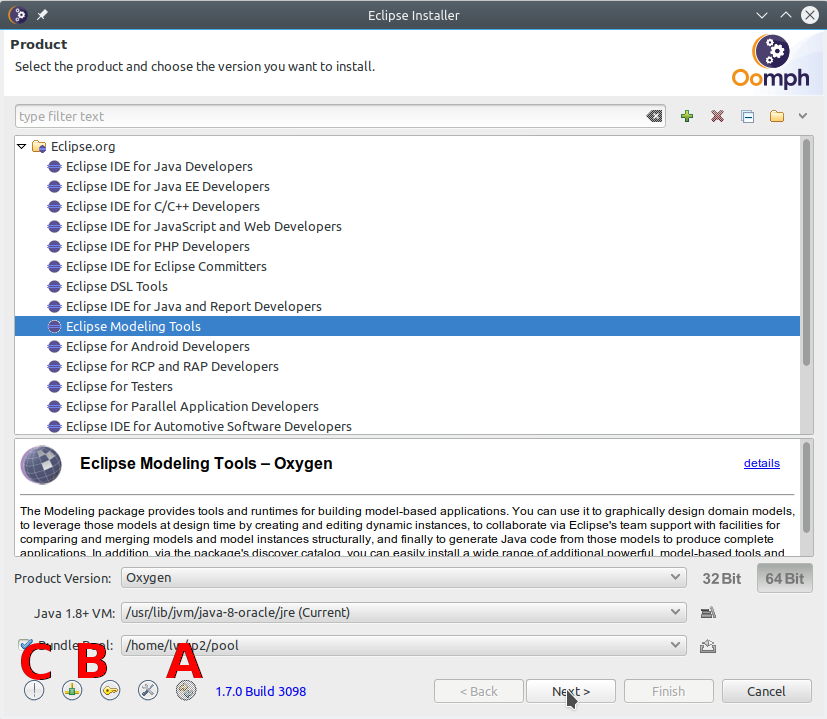
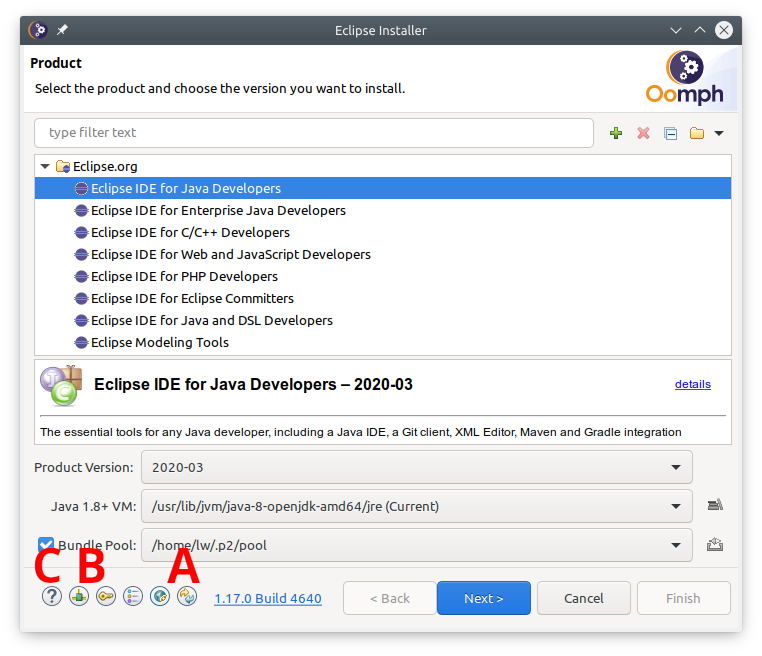
Update development setup

diff --git a/source/setup-development.md b/source/setup-development.md
@@ -28,7 +28,7 @@ On first use update the installer (A)
 
 If necessary, configure proxy settings, and optionally enter ssh credentials (B). User the help (C) for more detailed information on these steps.
 
-Select *Eclipse Modeling Tools* as the base product to install, and select *2019-12* as the product version. Choose 64bit as your Java version.
+Select **Eclipse IDE for Java Developers** as the base product to install, and select **2020-03* as the product version. Choose 64bit as your Java version.
 
 ## 4. Add the OSATE setup file
 
@@ -38,7 +38,7 @@ Add a user project by clicking on the + icon (A).
 
 Select the catalog *Github Projects* and enter the following URL as the *Resource URI*:
 
-https://raw.githubusercontent.com/osate/osate2/master/setup/osate2_2019-12.setup
+https://raw.githubusercontent.com/osate/osate2/master/setup/osate2_2020-03.setup
 
 Check the box next to the added OSATE2 Development entry in the tree under Github Projects/<User>. Then select the master stream in right column of the table at the bottom.
 
@@ -48,11 +48,13 @@ Check the box next to the added OSATE2 Development entry in the tree under Githu
 
 Check *Show all variables* near the bottom of the dialog. Without this, only variables that do not have a value will be displayed. Oomph stores variable values between invocations, so nothing would be shown after the first run.
 
-The first group of variables determines the directory for the new eclipse installation. You can choose between (a) a root directory and a subdirectory within that root directory and (b) a full path to the installation directory.
+The first group of variables determines the directory for the new eclipse installation. In *Installation location rule* you can choose between (a) a root directory and a subdirectory within that root directory and (b) a full path to the installation directory. Depending on your choice you will need to fill in the installation path and directory name.
 
-The next group determines the location of the workspace. Do not reuse an existing workspace as that will likely lead to problems.
+The next group determines the location of the workspace. Do not reuse an existing workspace as that will likely lead to problems. 
 
-The git clone location is the root directory into which all git repositories are cloned. The tycho build requires that all git repositories share the same root directory. If you have (all or some) repositories cloned already you can re-use the clones. Make sure that all clones have the develop branch checked out (except osate2-ocarina, which has just a master branch). Also, make sure that they are up to date by issuing a _git pull_ command.
+The *Git clone location rule* determines how the path to the osate2 git repository clone is constructed. The osate2 git repository can be cloned in a directory in the installation location, workspace location, or elsewhere. Depending on the location a new field will be shown to enter a directory.
+
+The *API baseline location rule* determines how the path to store API baseline files is constructed. The API baseline(s) can be stored in a directory in the installation location, workspace location, or elsewhere. Depending on the location a new field will be shown to enter a directory. *Do not store API baseline files in a local git repository.*
 
 Finally, choose how to access the git repositories. The default choice uses ssh access and requires ssh credentials (click the key icon at the bottom to set this up), and your public key must be uploaded to github. The  *HTTPS (read-write)* option uses your Github username and password. When you choose https a variable for the user name will show up. Replace the default _anonymous_ with your github user name. 
 
